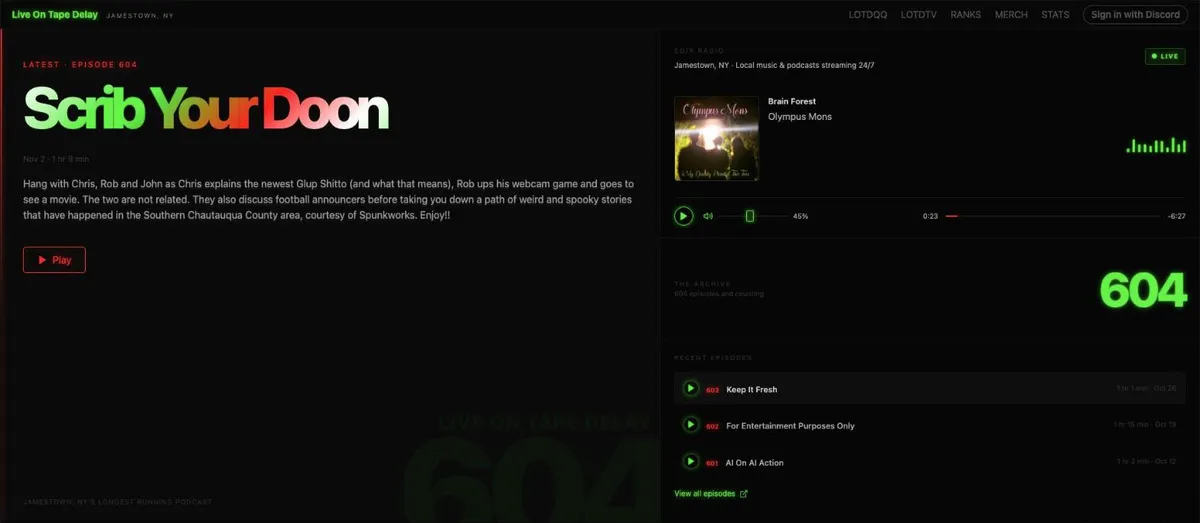
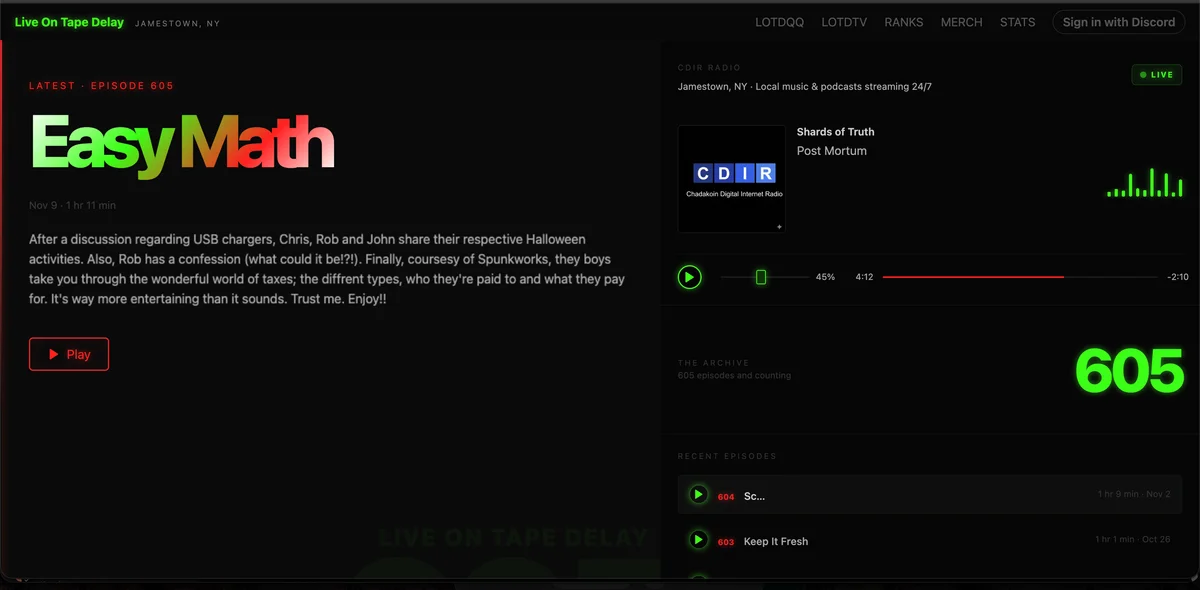
Mark Live On Tape Delay as live with new screenshot and features

diff --git a/components/Portfolio.tsx b/components/Portfolio.tsx
@@ -25,13 +25,13 @@ export default function Portfolio() {
       linkLabel: 'Open Project',
     },
     {
-      title: 'Live On Tape Delay (redesign)',
-      badge: 'Launching soon: early look',
+      title: 'Live On Tape Delay',
+      badge: 'Now live',
       description:
-        'The new home for the longest-running podcast in Jamestown: the full 600+ episode archive, a live CDIR player, and LOTDQQ, the trivia game that builds questions from each episode. It is built and in final polish before launch.',
-      image: { src: '/lotd-preview.webp', alt: 'Live On Tape Delay redesign sneak peek', width: 1200, height: 523 },
-      link: 'https://liveontapedelay-website.vercel.app/',
-      linkLabel: 'See the sneak peek',
+        'The new home for the longest-running podcast in Jamestown: the full 600+ episode archive, a live CDIR player, LOTDTV with a live channel guide, Discord sign-in, and a new version of LOTDQQ, the trivia game that builds questions from each episode.',
+      image: { src: '/lotd-preview.webp', alt: 'Live On Tape Delay homepage with the latest episode and CDIR radio player', width: 1200, height: 590 },
+      link: 'https://liveontapedelay.com/',
+      linkLabel: 'Visit liveontapedelay.com',
     },
   ];
 
